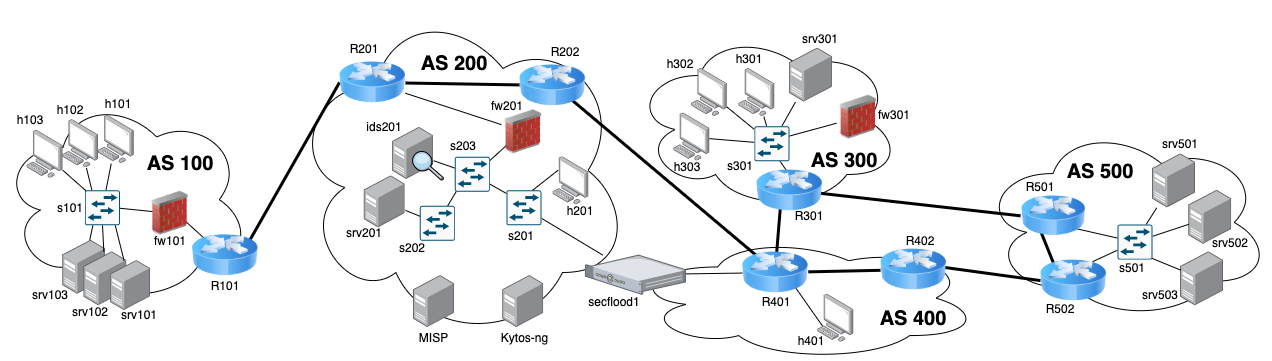
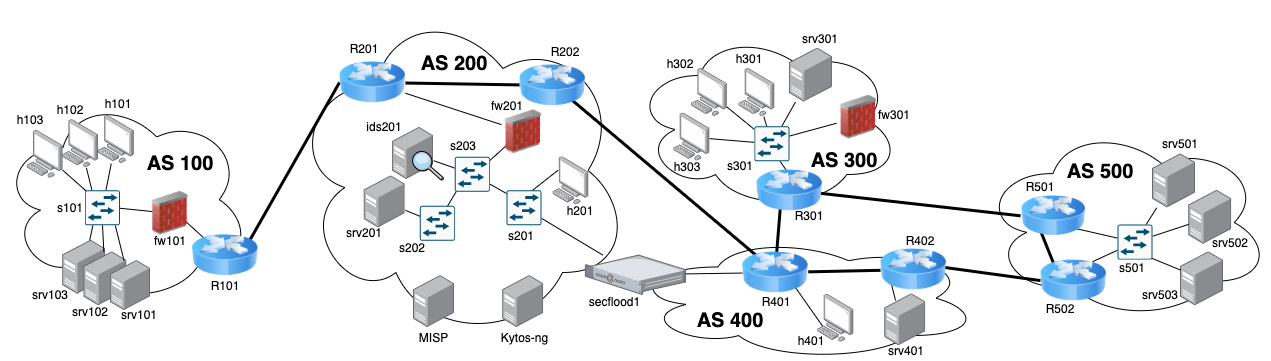
update multi-as topology

diff --git a/examples/multi-as.py b/examples/multi-as.py
@@ -40,9 +40,9 @@ class NetworkTopo( Topo ):
         h102 = self.addHost('h102', ip='192.168.10.2/24', defaultRoute='via 192.168.10.254')
         h103 = self.addHost('h103', ip='192.168.10.3/24', defaultRoute='via 192.168.10.254')
 
-        srv101 = self.addHost('srv101', ip='172.16.10.1/24', defaultRoute='via 172.16.10.254', apps=[{"name": "http", "port": 80}, {"name": "https", "port": 443}, {"name": "dns", "port": 53}])
-        srv102 = self.addHost('srv102', ip='172.16.10.2/24', defaultRoute='via 172.16.10.254', apps=[{"name": "smtp", "port": 25}, {"name": "imap", "port": 143}, {"name": "pop3", "port": 110}])
-        srv103 = self.addHost('srv103', ip='172.16.10.3/24', defaultRoute='via 172.16.10.254')
+        srv101 = self.addHost('srv101', ip='172.16.10.1/24', defaultRoute='via 172.16.10.254', apps=[{"name": "http", "port": 80}, {"name": "https", "port": 443}, {"name": "dns", "port": 53}, {"name": "ssh", "port": 22}])
+        srv102 = self.addHost('srv102', ip='172.16.10.2/24', defaultRoute='via 172.16.10.254', apps=[{"name": "smtp", "port": 25}, {"name": "imap", "port": 143}, {"name": "pop3", "port": 110}, {"name": "ssh", "port": 22}])
+        srv103 = self.addHost('srv103', ip='172.16.10.3/24', defaultRoute='via 172.16.10.254', apps=[{"name": "ssh", "port": 22}])
 
         rules_v4_as100 = {
             "filter": [
@@ -57,6 +57,7 @@ class NetworkTopo( Topo ):
                 '-A FORWARD -p icmp -j ACCEPT',
                 '-A FORWARD -s 192.168.10.0/24 -p udp --dport 53 -j ACCEPT',
                 '-A FORWARD -s 192.168.10.0/24 -p tcp -m multiport --dports 80,443 -j ACCEPT',
+                '-A FORWARD -s 192.168.10.0/24 -d 172.16.10.0/24 -j ACCEPT',
                 '-A FORWARD -s 172.16.10.0/24 -p udp --dport 53 -j ACCEPT',
                 '-A FORWARD -d 172.16.10.1 -p tcp -m multiport --dports 80,443 -j ACCEPT',
                 '-A FORWARD -d 172.16.10.1 -p udp -m multiport --dports 53 -j ACCEPT',
@@ -161,12 +162,15 @@ class NetworkTopo( Topo ):
         ## AS 400
         ####################
         r401 = self.addHost('r401', ip='10.40.40.1/30', mynetworks=["192.168.40.0/24"])
-        r402 = self.addHost('r402', ip='10.40.40.2/30', mynetworks=[])
+        r402 = self.addHost('r402', ip='10.40.40.2/30', mynetworks=["172.16.40.0/24"])
 
         h401 = self.addHost('h401', ip='192.168.40.1/24', defaultRoute='via 192.168.40.254')
 
+        srv401 = self.addHost('srv401', cls=K8sPod, image="vulnerables/cve-2014-0160:latest", ip="172.16.40.1/24", defaultRoute="via 172.16.40.254")
+
         self.addLink(r401, r402)
         self.addLink(r401, h401, ipv4_node1="192.168.40.254/24")
+        self.addLink(r402, srv401, ipv4_node1="172.16.40.254/24")
         self.addLink(r401, secflood1, ipv4_node1="10.40.40.5/30", ipv4_node2="10.40.40.6/30")
 
         ####################
